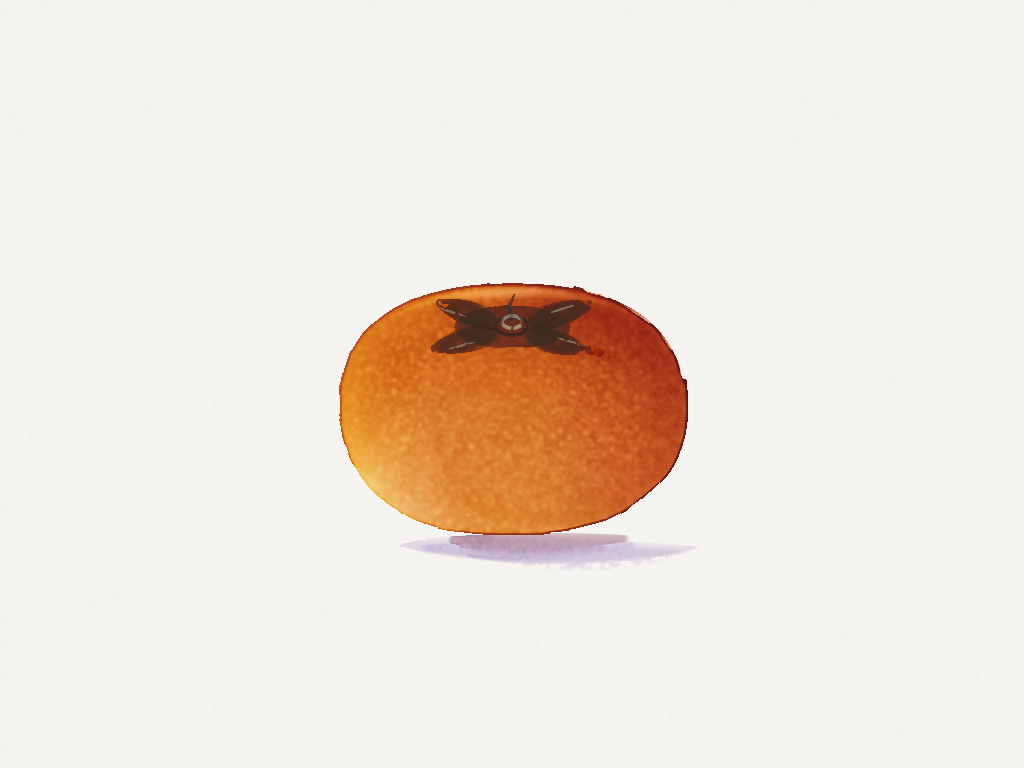
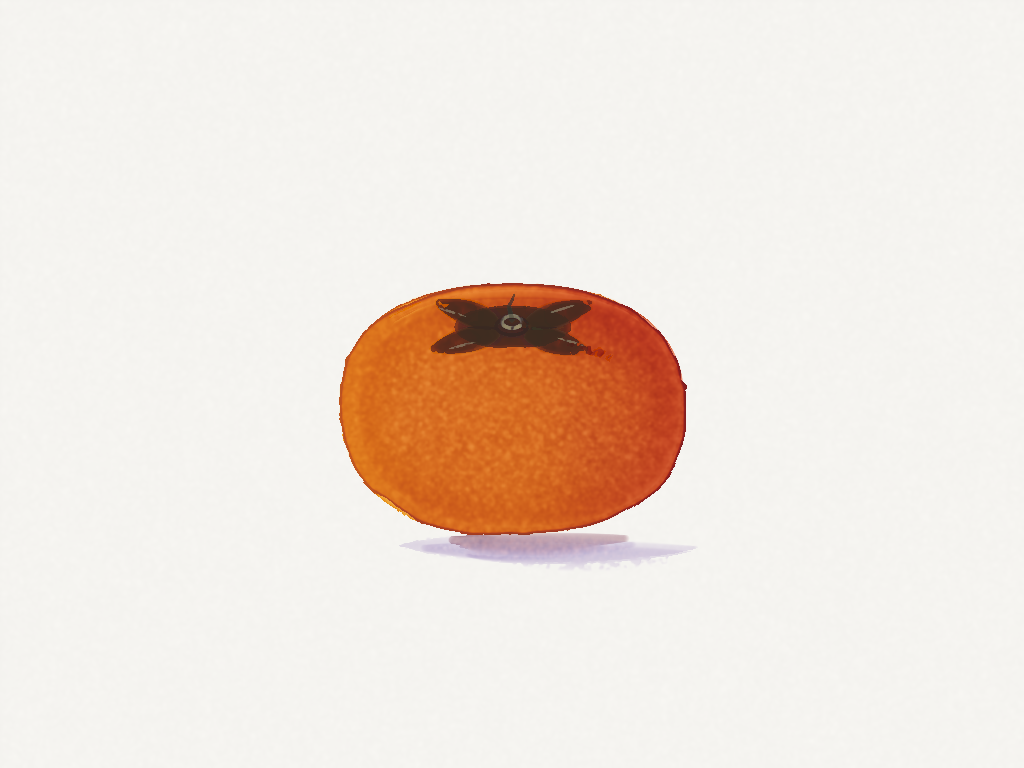
Autumn lantern repainted at 0.38 on the wash rework; probe: pale-cell metric
Recalibrated for d849fc3: the body wash now lands at ~0.95 of one stroke in
the middle (it used to run to 2.6 on small shapes), so 0.30 came out pale and
flat, and the variegated body now carries the turn it promises — LIGHT across
into DEEP at 0.38, with the deep note kept low on the right.

Probe washeven: bands() now reads the buffer once and reports `pale` (share of
cells inside the shape under 40% of the middle) and `bottomMin`, and a fifth
shape (disc r92 low on the sheet) covers the pale notch at the foot of round
washes, which the band averages hid.

diff --git a/tools/probes.js b/tools/probes.js
@@ -759,15 +759,44 @@
           for (let x = Math.max(0, Math.round(x0)); x < Math.min(W, Math.round(x1)); x++) { s += a[(y * W + x) * 4 + 2]; n++; }
         return s / Math.max(1, n);
       };
-      const bands = async (x0, y0, x1, y1) => {
+      const inPoly = (poly, x, y) => {
+        let c = false;
+        for (let i = 0, j = poly.length - 1; i < poly.length; j = i++) {
+          const [xi, yi] = poly[i], [xj, yj] = poly[j];
+          if (((yi > y) !== (yj > y)) && (x < (xj - xi) * (y - yi) / (yj - yi) + xi)) c = !c;
+        }
+        return c;
+      };
+      const bands = async (poly, x0, y0, x1, y1) => {
         const bw = Math.max(8, Math.min(R, Math.round((y1 - y0) / 6)));
-        const mid = await mean(x0 + 2 * bw, x1 - 2 * bw, y0 + 2 * bw, y1 - 2 * bw);
-        const pick = async (m) => +(m / (mid || 1)).toFixed(2);
+        const a = await S.read();
+        const avg = (xa, xb, ya, yb) => {
+          let s = 0, n = 0;
+          for (let y = Math.max(0, Math.round(ya)); y < Math.min(SH, Math.round(yb)); y++)
+            for (let x = Math.max(0, Math.round(xa)); x < Math.min(W, Math.round(xb)); x++) { s += a[(y * W + x) * 4 + 2]; n++; }
+          return s / Math.max(1, n);
+        };
+        const mid = avg(x0 + 2 * bw, x1 - 2 * bw, y0 + 2 * bw, y1 - 2 * bw);
+        const pick = (m) => +(m / (mid || 1)).toFixed(2);
+        // The worst column in the bottom band: a small unpainted notch at a shape's
+        // foot averages away in the band, so it needs its own number.
+        let bottomMin = 1;
+        for (let x = Math.round(x0 + 2 * bw); x < Math.round(x1 - 2 * bw); x++) bottomMin = Math.min(bottomMin, avg(x, x + 1, y1 - bw, y1) / (mid || 1));
         return {
-          top: await pick(await mean(x0 + 2 * bw, x1 - 2 * bw, y0, y0 + bw)),
-          bottom: await pick(await mean(x0 + 2 * bw, x1 - 2 * bw, y1 - bw, y1)),
-          left: await pick(await mean(x0, x0 + bw, y0 + 2 * bw, y1 - 2 * bw)),
-          right: await pick(await mean(x1 - bw, x1, y0 + 2 * bw, y1 - 2 * bw)),
+          top: pick(avg(x0 + 2 * bw, x1 - 2 * bw, y0, y0 + bw)),
+          bottom: pick(avg(x0 + 2 * bw, x1 - 2 * bw, y1 - bw, y1)),
+          left: pick(avg(x0, x0 + bw, y0 + 2 * bw, y1 - 2 * bw)),
+          right: pick(avg(x1 - bw, x1, y0 + 2 * bw, y1 - 2 * bw)),
+          bottomMin: +bottomMin.toFixed(2),
+          // Bare-paper share: cells inside the shape reading under 40% of the middle.
+          // A notch at a round shape's foot is a few cells wide and averages away.
+          pale: +(() => {
+            let n = 0, p = 0;
+            for (let y = Math.round(y0); y < Math.round(y1); y++)
+              for (let x = Math.round(x0); x < Math.round(x1); x++)
+                if (inPoly(poly, x, y)) { n++; if (a[(y * W + x) * 4 + 2] < 0.4 * mid) p++; }
+            return n ? 100 * p / n : 0;
+          })().toFixed(2),
           bw, mid: +mid.toFixed(4),
         };
       };
@@ -789,15 +818,20 @@
         // A rectangle, a disc, the same disc half a row step lower, a thin band.
         const rect = [60, 80, 480, 320];
         await wash(box(...rect), inside(...rect));
-        Object.assign(out, { rect: await bands(rect[0], rect[1], rect[2], rect[3]) });
+        Object.assign(out, { rect: await bands(box(...rect), rect[0], rect[1], rect[2], rect[3]) });
         const dA = [700, 170, 80], dB = [900, 170 + rowStep / 2, 80];   // (B beside A, not over it: at 700 it was a glaze over dried A)
         await wash(discPoly(dA[0], dA[1], dA[2]), [[dA[0], dA[1]]]);
-        out.discA = await bands(dA[0] - dA[2], dA[1] - dA[2], dA[0] + dA[2], dA[1] + dA[2]);
+        out.discA = await bands(discPoly(dA[0], dA[1], dA[2]), dA[0] - dA[2], dA[1] - dA[2], dA[0] + dA[2], dA[1] + dA[2]);
         await wash(discPoly(dB[0], dB[1], dB[2]), [[dB[0], dB[1]]]);
-        out.discB = await bands(dB[0] - dB[2], dB[1] - dB[2], dB[0] + dB[2], dB[1] + dB[2]);
+        out.discB = await bands(discPoly(dB[0], dB[1], dB[2]), dB[0] - dB[2], dB[1] - dB[2], dB[0] + dB[2], dB[1] + dB[2]);
+        // A bigger disc low on the sheet: the size and place where a pale notch at the
+        // foot shows up (r92 at y470), so the probe covers it.
+        const dC = [250, 470, 92];
+        await wash(discPoly(dC[0], dC[1], dC[2]), [[dC[0], dC[1]]]);
+        out.discC = await bands(discPoly(dC[0], dC[1], dC[2]), dC[0] - dC[2], dC[1] - dC[2], dC[0] + dC[2], dC[1] + dC[2]);
         const band = [80, 600, 780, 650];
         await wash(box(...band), inside(...band));
-        out.band = await bands(band[0], band[1], band[2], band[3]);
+        out.band = await bands(box(...band), band[0], band[1], band[2], band[3]);
         // One plain stroke, same brush, mix and strength: the doser's target.
         h.lift(); await h.paint(120, 700, 740, 700, R);
         S.act('dry', true);
@@ -805,7 +839,7 @@
         out.stroke = +(await mean(200, 660, 690, 710)).toFixed(4);
       });
       h.end();
-      for (const k of ['rect', 'discA', 'discB', 'band']) if (out[k]) out[k].midVsStroke = +(out[k].mid / (out.stroke || 1)).toFixed(2);
+      for (const k of ['rect', 'discA', 'discB', 'discC', 'band']) if (out[k]) out[k].midVsStroke = +(out[k].mid / (out.stroke || 1)).toFixed(2);
       return out;
     },
 

diff --git a/paintings/autumn-lantern.js b/paintings/autumn-lantern.js
@@ -62,11 +62,9 @@ window.__paintDone=(async()=>{
   await S.path(pts(t=>[452+174*t,540+2*Math.sin(t*4),0.1+0.4*Math.sin(Math.PI*t)],16),3);
   await dry([[556,546]]);await S.look('shadow');
 
-  await dry([[566,534]]);await S.look('shadow');
-
   log('the fruit: yellow-orange across into deep red-orange, one variegated wash');
-  h.setBrushPreset('mop');h.setBrush(LIGHT);V.brushRadius=72;V.brushPigment=0.30;V.dipLoad=0.36;
-  await S.wash(fruit,{kind:'variegated',into:DARKER,direction:'across',paper:'moist'});
+  h.setBrushPreset('mop');h.setBrush(LIGHT);V.brushRadius=72;V.brushPigment=0.38;V.dipLoad=0.36;
+  await S.wash(fruit,{kind:'variegated',into:DEEP,direction:'across',paper:'moist'});
   await S.skipTo('shiny',{points:[[512,406]]});
 
   log('the deepest note low on the right, while shiny, following the form');
@@ -112,6 +110,6 @@ window.__paintDone=(async()=>{
   await S.path([[556,342,0.1],[598,352,0.45],[626,366,0.1]],4);
   await dry([[512,CALY]]);
   await S.look('finished');
-  await S.note('Autumn lantern (paintings/autumn-lantern.js), DeepSeek: a Fuyu persimmon on white paper, repainted on the wash fix. Where it landed: the fruit is one variegated wash laid moist, yellow-orange burning across into deep red-orange at 0.34, the deepest note dropped in while shiny, the top edge lifted with a thirstier clean brush so the light comes from above; the calyx is a dark collar with four points laid over the dry fruit, every mark clamped onto the fruit by onFruit, with rigger creases, tan lit rims, a pale stem scar and a small cast shadow. Tried and rejected on the way (recorded so they need not be repeated): glazing the turn as stroke shapes (smudges on a flat field); a masked sheen (peeled as a huge crisp eye); a calyx of four filled polygons (a pressed flower) or four thin tapered strokes (a moth - the lobes broke the silhouette); rebuilding the silhouette to a Fuyu\'s 1.25:1 with a superellipse (n 2.45 squared the sides into slabs, and the variegated wash at the narrower width split into a pale left crescent with a line through it); a flat wash with the turn stroked in afterwards at satin (flat and smudgy - the turn wants to come out of the wash). Still weak, honestly: the silhouette is more oval than a Fuyu, and the calyx, though seated, is heavy and dark. No physics changes.');
+  await S.note('Autumn lantern (paintings/autumn-lantern.js), DeepSeek: a Fuyu persimmon on white paper, repainted on the wash rework (d849fc3). What the rework changed for this study: the body wash now lands at about one stroke in the middle (was up to 2.6 times that on some shapes), so 0.30 comes out pale and flat and the body went to 0.38; and a variegated wash now really does carry the turn it promises, so the body is LIGHT variegated across into DEEP (pyrrole scarlet / red oxide / quinacridone rose), with one deep note low on the right while shiny, the top edge lifted, and the calyx clamped onto the dry fruit as before. Also tried on the fixed wash, in swatches (.local/turn-swatches.js): graded fadeTo 1.8 and 2.4 both carry a gentle top-to-bottom turn now (they were indistinguishable from flat before the rework) — worth remembering for subjects lit from above. No physics changes.');
   log('done');
 })();
